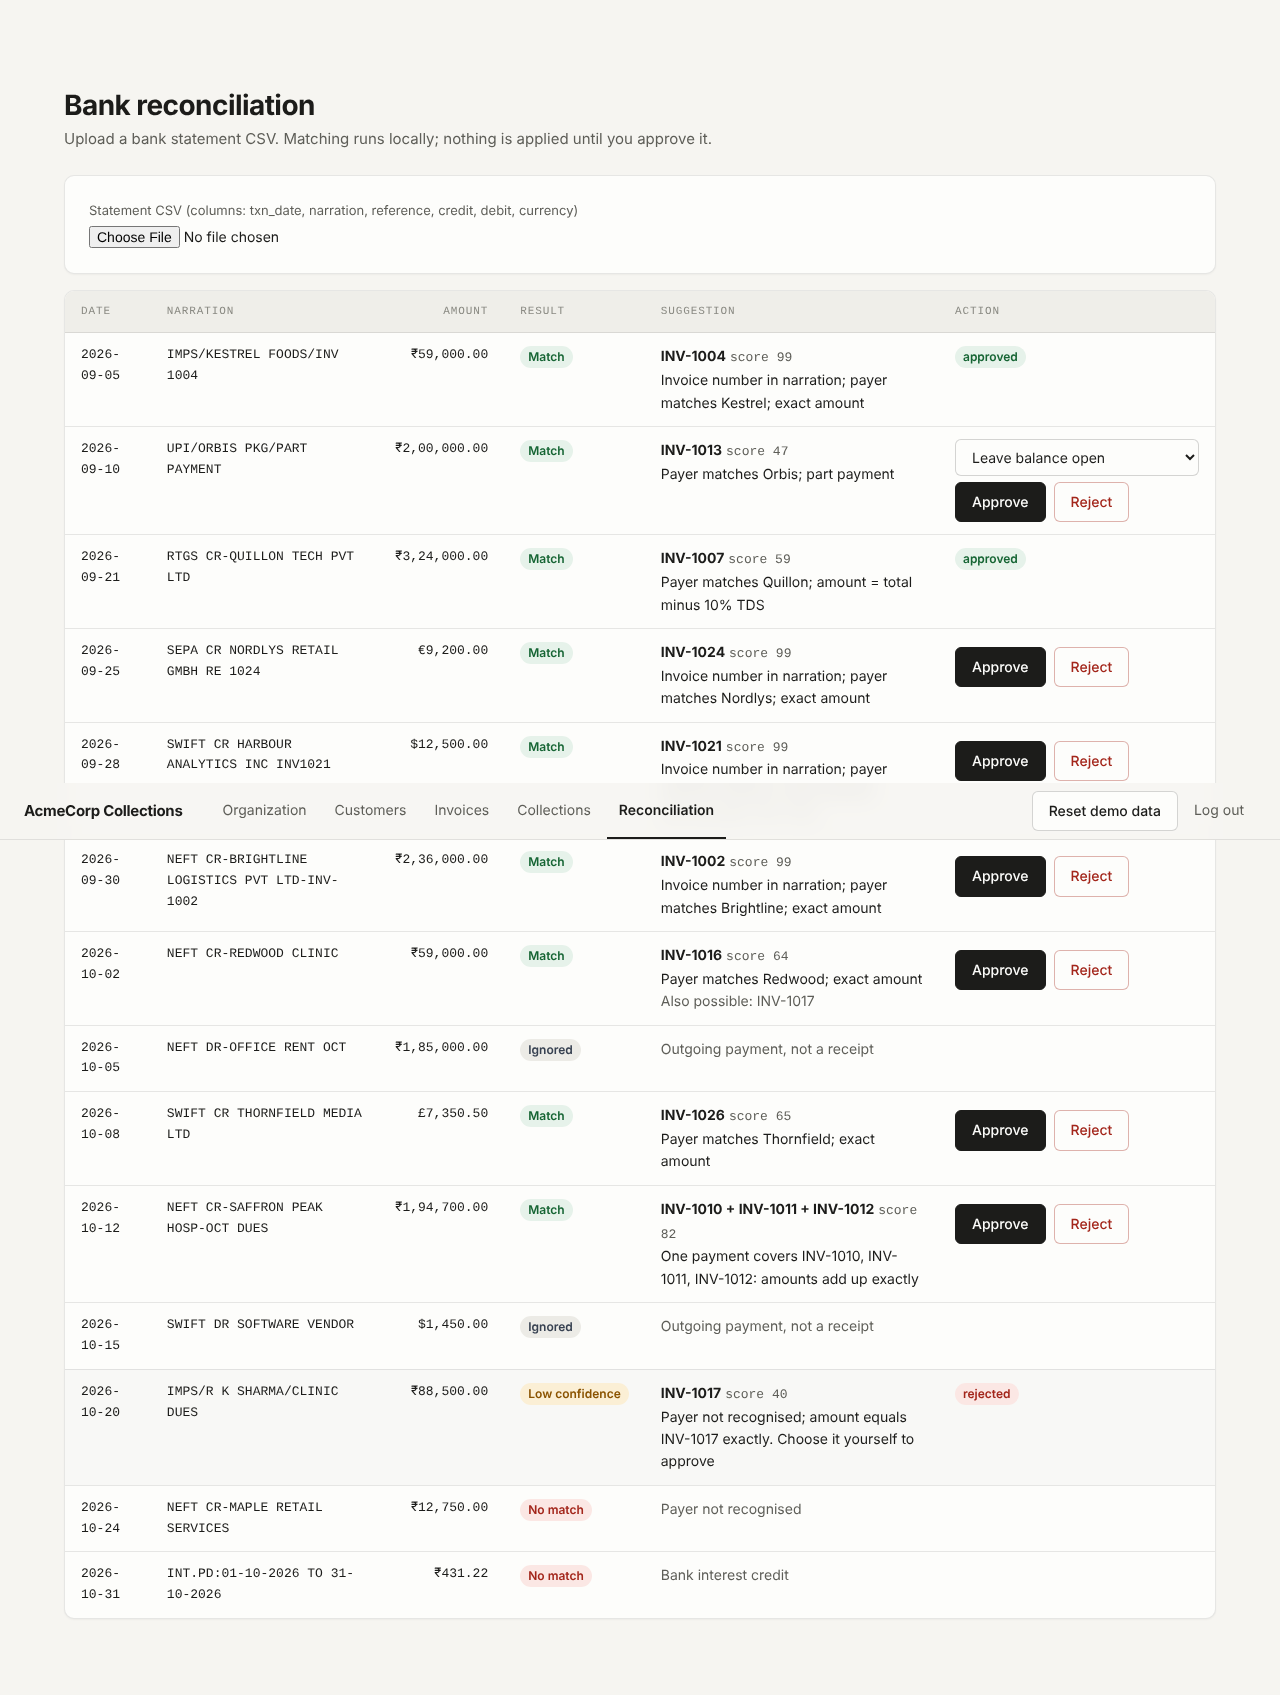
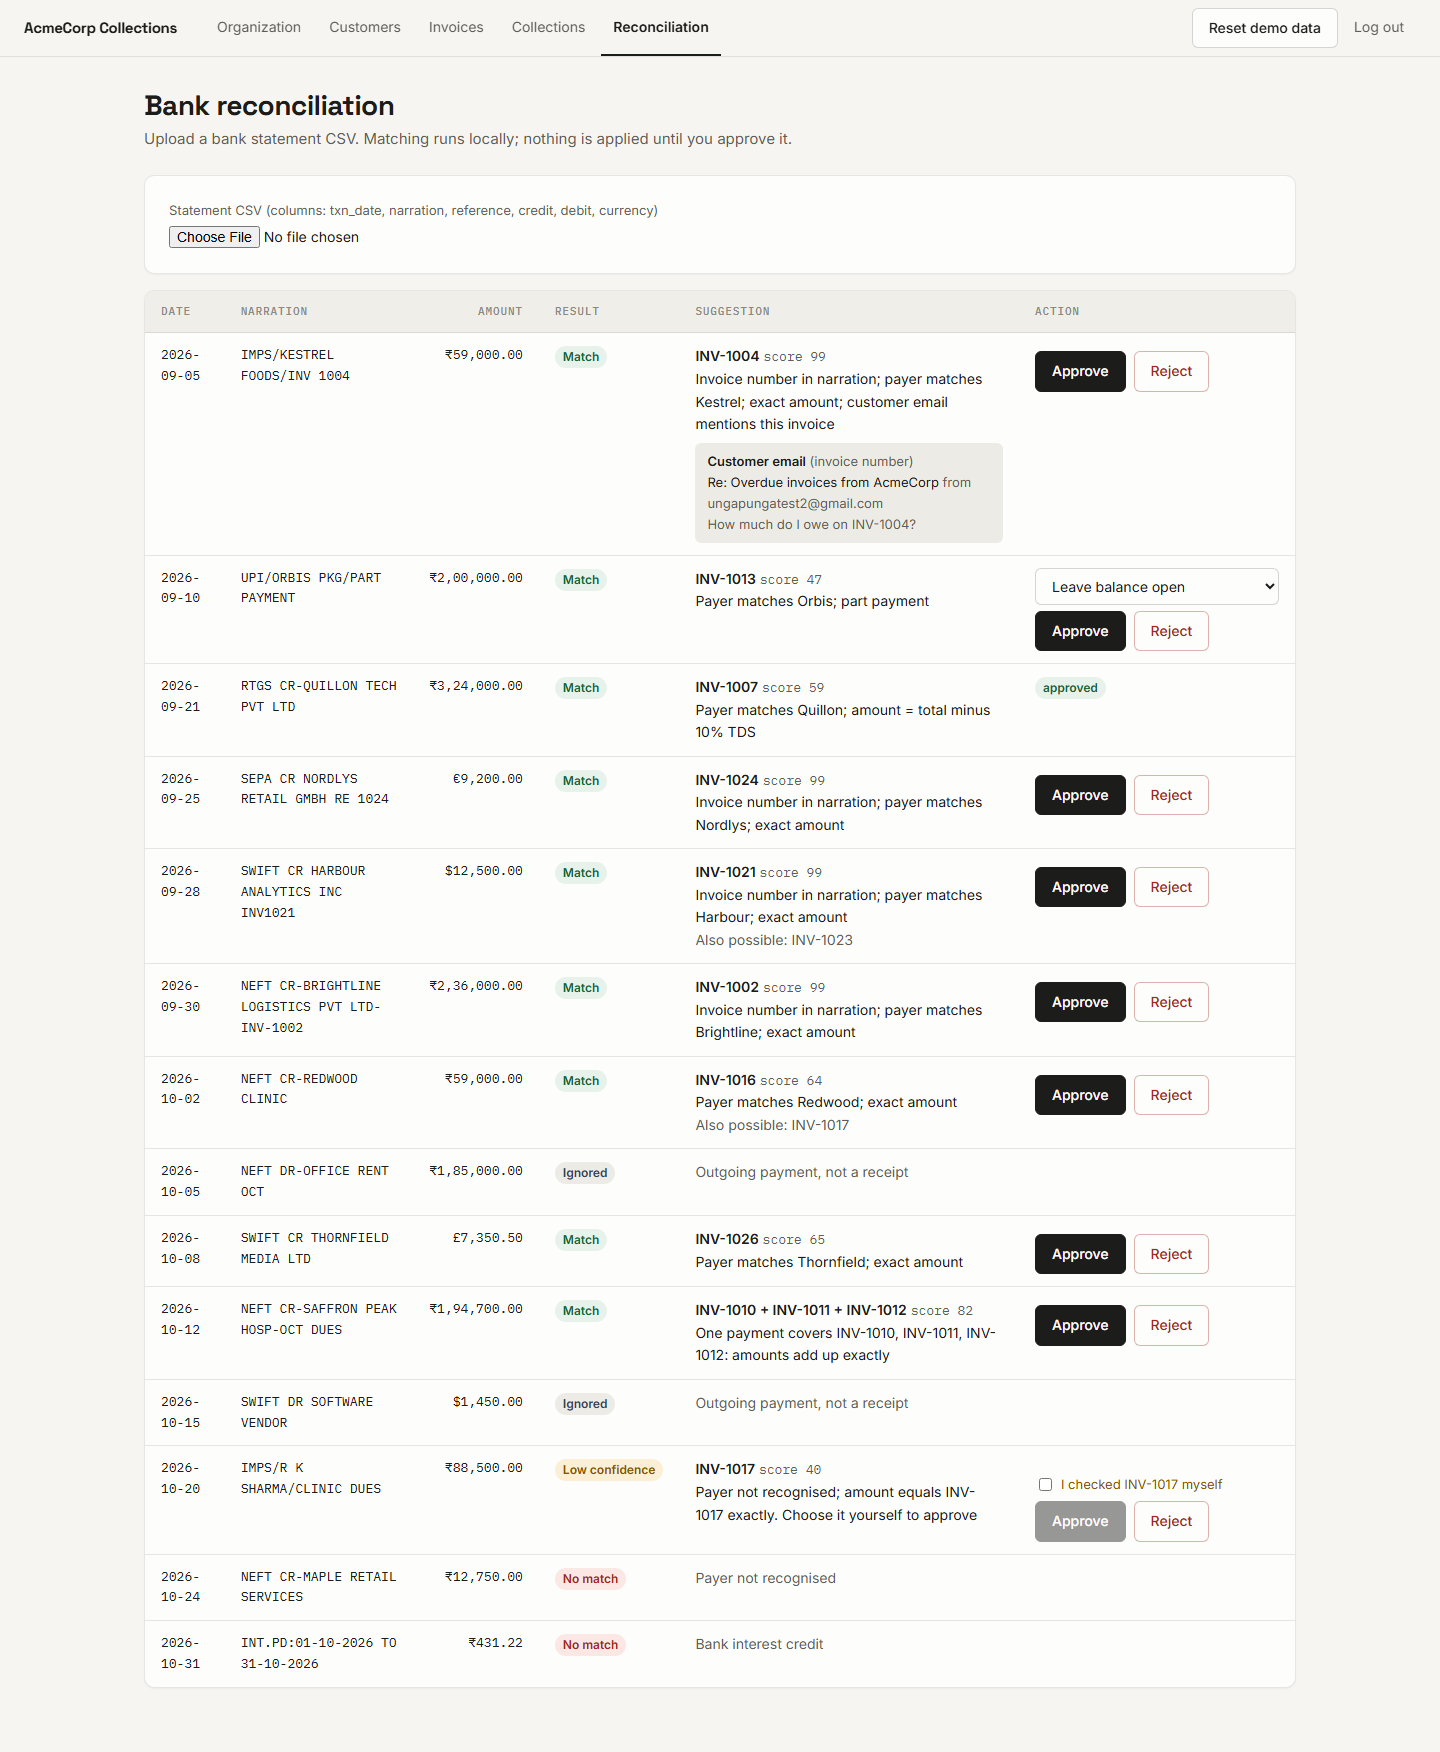
docs: record live test bug fixes, add decisions 12-13, and fix reconciliation screenshot

diff --git a/docs/BUILD_LOG.md b/docs/BUILD_LOG.md
@@ -11,3 +11,6 @@ Real problems met while building, how they were found, what changed.
 - **Reason text lost its capitals.** `.capitalize()` lowercased the rest ("payer matches kestrel", "tds"). Found in a screenshot; fixed.
 - **Circular import in the frontend.** Pages imported helpers from `App.jsx`, which imports the pages. Moved the helpers to `shared.jsx`.
 - **Fresh install showed an empty app.** The database was only seeded by a command or the reset button. The backend now seeds an empty database on startup (tested).
+- **Normal emails were filed as "automated" (found in the live Gmail test).** The mail reader fills missing headers with empty strings, and my check treated any `Auto-Submitted` value other than "no" as an auto-reply, so an empty string counted. Every ordinary customer email was recorded as automated, never answered, and hidden under the Automated tab, which is why *Needs attention* looked empty. My unit test only used absent headers, never empty ones. Fixed by ignoring empty values; a test with empty headers now covers it.
+- **Gemini model name and 503 errors.** The default model returned 404 for my key, and another alias returned frequent 503s. The model is now set with `GEMINI_MODEL`, and the call retries three times with backoff on 429 and 5xx before the email is sent to a person.
+- **"Check inbox now" showed 0 emails after I opened the reply in the browser.** The inbox check reads only unread mail, and Gmail marks a message read when it is opened. I kept the design and documented it in the README (see decision 12).

diff --git a/docs/DECISIONS.md b/docs/DECISIONS.md
@@ -39,3 +39,7 @@ upload, strict CORS, input validation, and a 1 MB CSV cap.
 not by LLM. It can nudge a score or promote a low-confidence row; a person still approves.
 
 **11. MongoDB.** Invoices carry nested line items and the payments and conversations collections are naturally documents.
+
+**12. The inbox check reads unread mail only.** Rejected: reading recent mail by date and skipping known Message-IDs. *Reset demo data* clears the stored conversations, so old emails would look new and be answered a second time. The cost is that opening a reply in the Gmail web page hides it from the check; the README says so and how to recover.
+
+**13. LLM failures never block the inbox.** A transient error (429, 5xx) is retried three times with backoff; any other failure, or invalid JSON, sends the email to *Needs attention*. The model name is configurable because a free-tier key may not have access to a given model.
